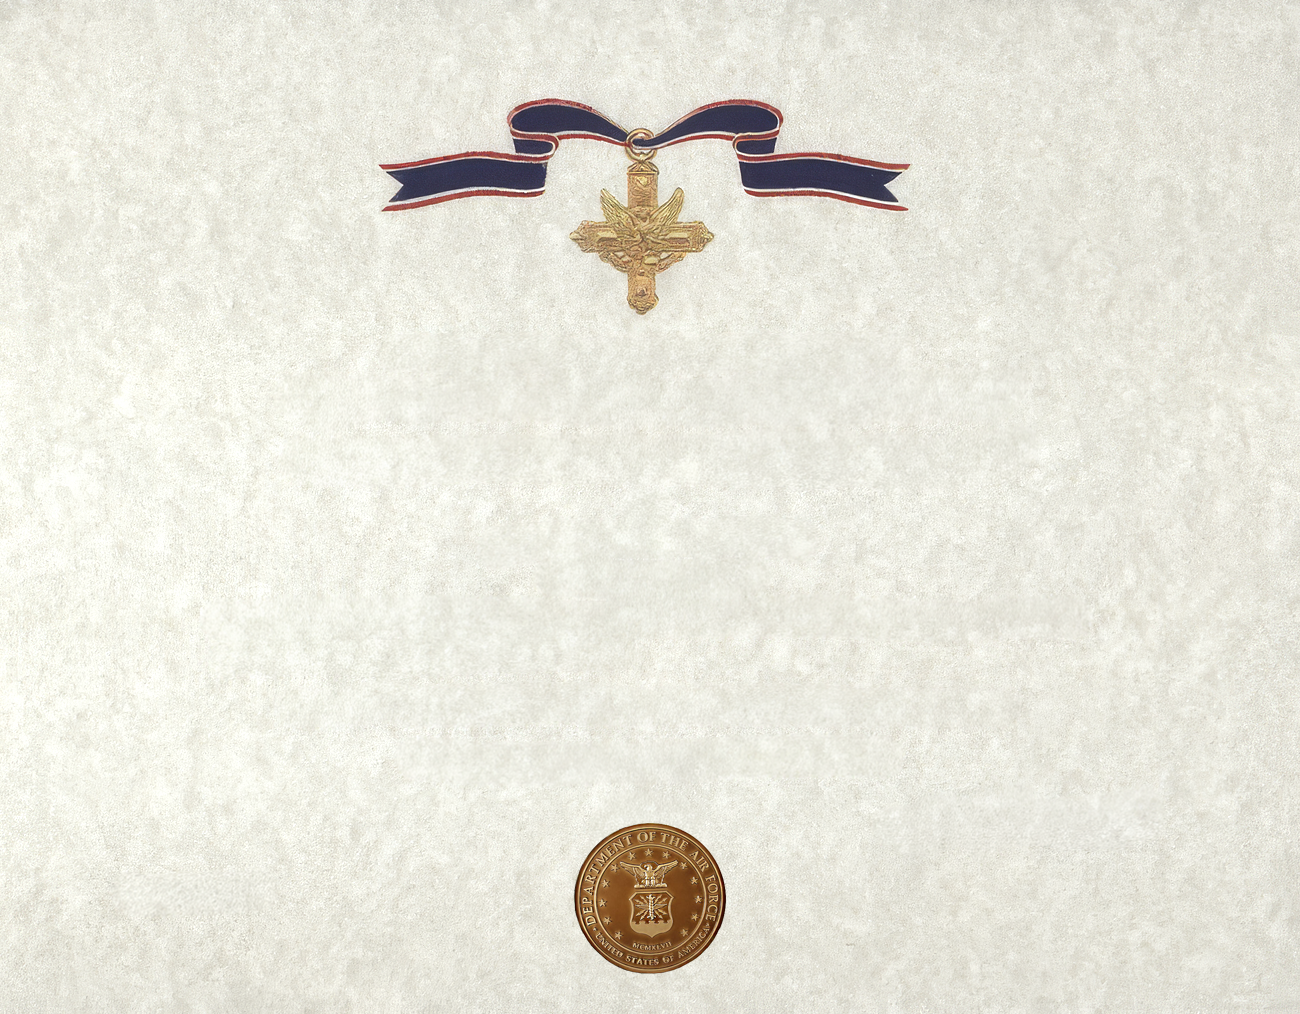
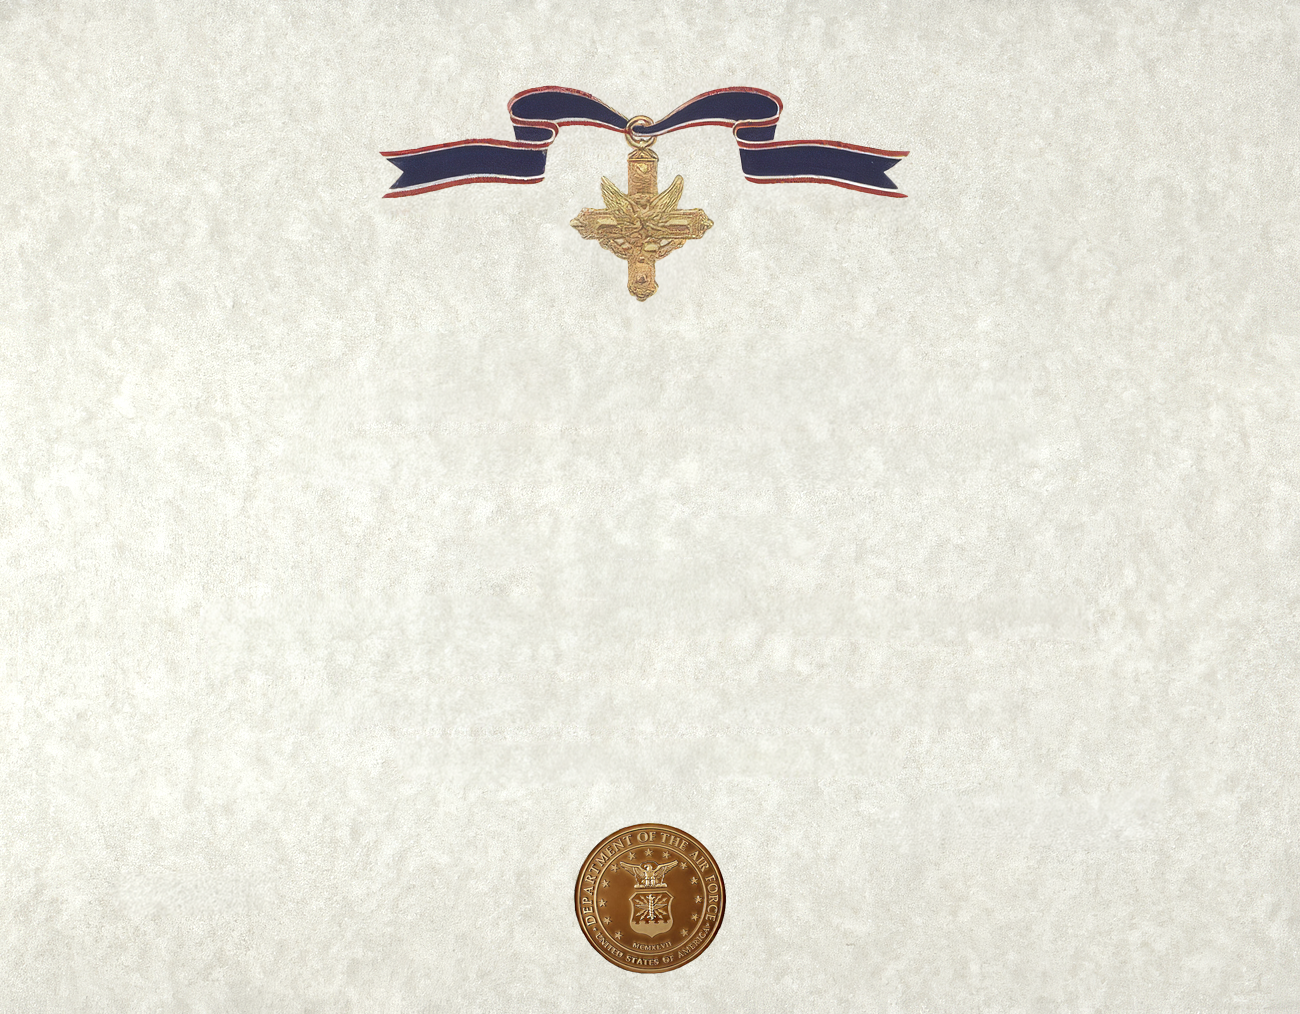
Certificates: revised sheets; the two portrait forms laid out line by line to the filled scans

Changed region(s): [[0.2769, 0.0611, 0.7077, 0.3057]]

diff --git a/korea_service_record/static/css/certificate.css b/korea_service_record/static/css/certificate.css
@@ -32,49 +32,54 @@
 .sheet.drawn.un .ct-text { top: 40%; bottom: 14%; }
 .sheet.drawn.moh .ct-text { top: 30%; }
 /* Portrait sheets: the Distinguished Unit Citation (Army PUC form) and the
-   Republic of Korea's citation. Text from under the bow to above the foot;
-   the ROK's signature is centred under the text with its seal behind, and
-   its "given" line centred, as on the form. */
+   Republic of Korea's citation. Each line is placed where the filled form
+   has it, in percent of the sheet's height (measured off the scans). */
 .sheet.portrait { max-width: 760px; }
-.sheet.portrait .ct-text { top: 16%; bottom: 18%; left: 9%; right: 9%; font-size: calc(760px * 0.0135); gap: 0.25em; }
+.sheet.portrait .ct-text { position: static; display: block; font-size: calc(760px * 0.0135); }
 @media (max-width: 800px) { .sheet.portrait .ct-text { font-size: 1.35vw; } }
-.sheet.portrait .ct-signature { bottom: 6%; width: 34%; font-size: calc(760px * 0.0135); }
-.sheet.portrait .ct-signature.left { left: 8%; }
-.sheet.portrait .ct-signature.right { right: 8%; }
-.sheet.portrait.rok_puc .ct-text { top: 8%; bottom: 25%; }
-.sheet.portrait.rok_puc .ct-country { font-family: Arial, Helvetica, sans-serif; font-weight: bold; font-size: 2.6em; letter-spacing: 0.02em; }
-.sheet.portrait.rok_puc .ct-pre { font-family: Arial, Helvetica, sans-serif; font-size: 0.85em; }
-/* The ribbon bar is drawn on the sheet at 21-27% of its height; the title
-   goes under it, the rest spaced down the page as on the form. */
-.sheet.portrait.rok_puc .ct-name { font-family: Arial, Helvetica, sans-serif; font-weight: bold; font-size: 2.2em; margin-top: 6.4em; }
-.sheet.portrait.rok_puc .ct-to { margin-top: 0.6em; }
-.sheet.portrait.rok_puc .ct-deed { margin-top: 0.8em; }
-.sheet.portrait.rok_puc .ct-to { font-family: 'Times New Roman', Georgia, serif; }
-.sheet.portrait.rok_puc .ct-recipient, .sheet.portrait.rok_puc .ct-service { font-family: 'Times New Roman', Georgia, serif; font-size: 1em; letter-spacing: 0.04em; }
-.sheet.portrait.rok_puc .ct-for { font-family: Arial, Helvetica, sans-serif; text-align: center; font-size: 1em; }
-.sheet.portrait.rok_puc .ct-for-label { display: block; font-weight: bold; margin: 0.6em 0 0.3em; }
-.sheet.portrait.rok_puc .ct-deed { font-family: Arial, Helvetica, sans-serif; font-size: 0.85em; text-align: center; }
-.sheet.portrait.rok_puc .ct-close { font-family: Arial, Helvetica, sans-serif; text-align: center; font-size: 0.95em; }
-.sheet.portrait.rok_puc .ct-close + .ct-close { font-style: italic; }
-.sheet.portrait.rok_puc .ct-given-block { text-align: center; }
+.sheet.portrait .ct-text > * { position: absolute; left: 9%; right: 9%; margin: 0; max-width: none; text-align: center; }
+.sheet.portrait .ct-signature { font-size: calc(760px * 0.0135); width: 30%; }
+@media (max-width: 800px) { .sheet.portrait .ct-signature { font-size: 1.35vw; } }
+
+/* Distinguished Unit Citation. */
+.sheet.portrait.duc .ct-country { top: 19.5%; font-size: 1.5em; }
+.sheet.portrait.duc .ct-pre { top: 23.5%; font-size: 1em; text-align: justify; line-height: 1.5; }
+.sheet.portrait.duc .ct-name { top: 31%; font-size: 2.4em; }
+.sheet.portrait.duc .ct-to { top: 37%; }
+.sheet.portrait.duc .ct-recipient { top: 40.5%; font-size: 1.2em; }
+.sheet.portrait.duc .ct-service { top: 47.5%; }
+.sheet.portrait.duc .ct-for { top: 52%; font-family: 'Times New Roman', Georgia, serif; font-size: 1.1em; }
+.sheet.portrait.duc .ct-for-label { display: block; margin: 0 0 1.2em; }
+.sheet.portrait.duc .ct-close { top: 60.5%; text-align: justify; line-height: 1.75; }
+.sheet.portrait.duc .ct-given-block { top: 71%; }
+.sheet.portrait.duc .ct-given { font-size: 1.2em; }
+.sheet.portrait.duc .ct-given-block { position: absolute; }
+.sheet.portrait.duc .ct-given-block .ct-given { position: static; display: block; margin-bottom: 0.9em; }
+.sheet.portrait.duc .ct-signature { bottom: 8.5%; }
+.sheet.portrait.duc .ct-signature.left { left: 6%; }
+.sheet.portrait.duc .ct-signature.right { right: 6%; }
+
+/* Republic of Korea Presidential Unit Citation: the form's sans faces; the
+   ribbon bar is on the sheet at 22-28%, the seal behind the middle. */
+.sheet.portrait.rok_puc .ct-country { top: 11%; font-family: Arial, Helvetica, sans-serif; font-weight: bold; font-size: 2.6em; letter-spacing: 0.02em; }
+.sheet.portrait.rok_puc .ct-pre { top: 16.2%; font-family: Arial, Helvetica, sans-serif; font-size: 0.85em; }
+.sheet.portrait.rok_puc .ct-pre + .ct-pre { top: 18.4%; }
+.sheet.portrait.rok_puc .ct-name { top: 29.5%; font-family: Arial, Helvetica, sans-serif; font-weight: bold; font-size: 2.2em; }
+.sheet.portrait.rok_puc .ct-to { top: 36%; font-family: 'Times New Roman', Georgia, serif; }
+.sheet.portrait.rok_puc .ct-recipient { top: 41%; font-family: 'Times New Roman', Georgia, serif; font-size: 1em; letter-spacing: 0.04em; }
+.sheet.portrait.rok_puc .ct-service { top: 45.5%; font-family: 'Times New Roman', Georgia, serif; font-size: 0.9em; letter-spacing: 0.04em; }
+.sheet.portrait.rok_puc .ct-for { top: 54%; font-family: Arial, Helvetica, sans-serif; font-size: 1em; line-height: 1.5; }
+.sheet.portrait.rok_puc .ct-for-label { display: block; font-weight: bold; margin: 0 0 1.1em; }
+.sheet.portrait.rok_puc .ct-deed { display: none; }
+.sheet.portrait.rok_puc .ct-close { top: 65.5%; font-family: Arial, Helvetica, sans-serif; font-size: 0.95em; }
+.sheet.portrait.rok_puc .ct-close + .ct-close { top: 69.5%; font-style: italic; }
+.sheet.portrait.rok_puc .ct-given-block { top: 73%; }
 .sheet.portrait.rok_puc .ct-given { font-size: 1.15em; }
 /* The form's own signature block is printed on the sheet at the foot
    (Rhee's name and title); the drawn signature sits on its line. */
-.sheet.portrait.rok_puc .ct-signature.right { right: auto; left: 50%; transform: translateX(-50%); bottom: 18.5%; width: 26%; }
+.sheet.portrait.rok_puc .ct-signature.right { right: auto; left: 50%; transform: translateX(-50%); bottom: 18%; width: 24%; }
 .sheet.portrait.rok_puc .ct-signature .ct-sign-line, .sheet.portrait.rok_puc .ct-signature .ct-sign-title { display: none; }
 .sheet.portrait.rok_puc .ct-sign-image { margin-bottom: 0; }
-.sheet.portrait.duc .ct-text { top: 19%; bottom: 20%; gap: 1.1em; }
-.sheet.portrait.duc .ct-country { font-size: 1.5em; }
-.sheet.portrait.duc .ct-pre { text-align: justify; max-width: 100%; font-size: 1em; }
-.sheet.portrait.duc .ct-name { font-size: 2.4em; }
-.sheet.portrait.duc .ct-for { text-align: center; }
-.sheet.portrait.duc .ct-for-label { display: block; font-family: 'Times New Roman', Georgia, serif; font-size: 1.1em; }
-.sheet.portrait.duc .ct-close { text-align: justify; }
-.sheet.portrait.duc .ct-given-block { text-align: center; }
-.sheet.portrait.duc .ct-given { font-size: 1.2em; }
-.sheet.portrait.duc .ct-name { margin: 0.4em 0; }
-.sheet.portrait.duc .ct-for { margin-top: 1em; }
-.sheet.portrait.duc .ct-given-block { margin-top: auto; }
 .ct-text { position: absolute; left: 8%; right: 8%; top: 28%; bottom: 16%; text-align: center; display: flex;
     flex-direction: column; justify-content: flex-start; gap: 0.15em; font-size: calc(1100px * 0.012); }
 @media (max-width: 1140px) { .ct-text { font-size: 1.15vw; } }
